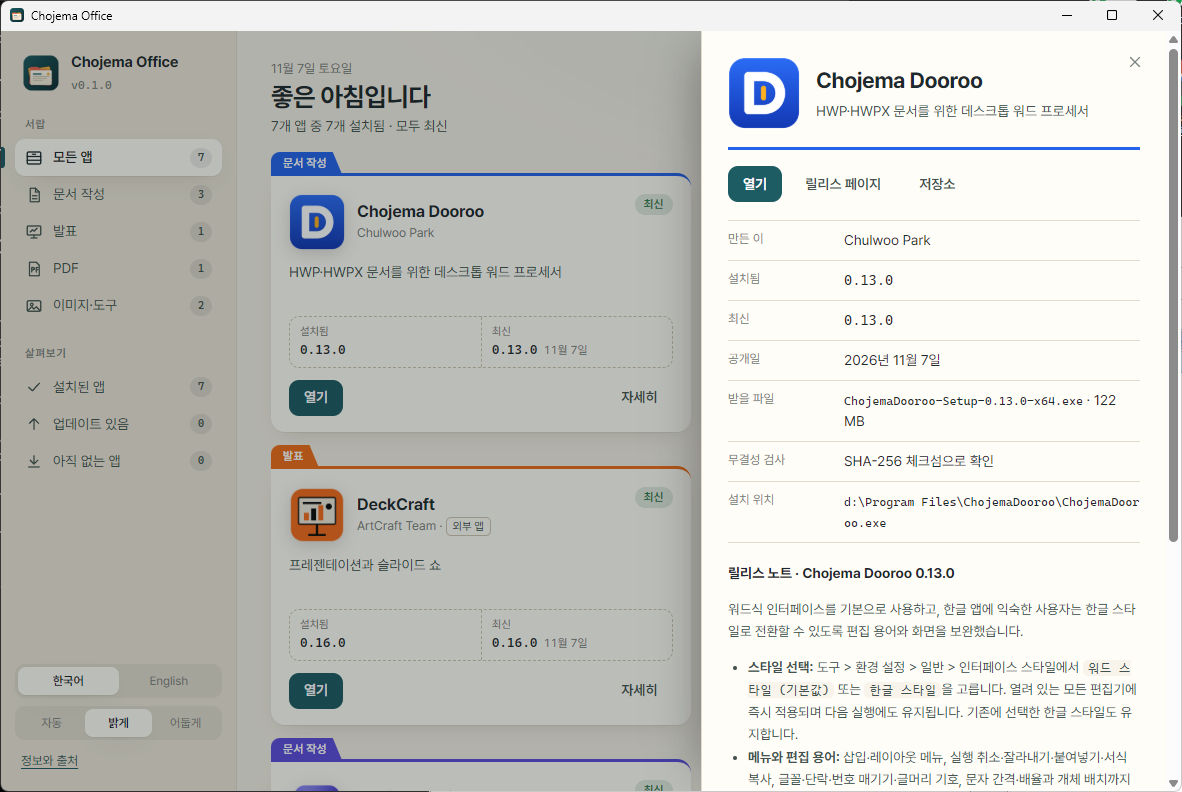
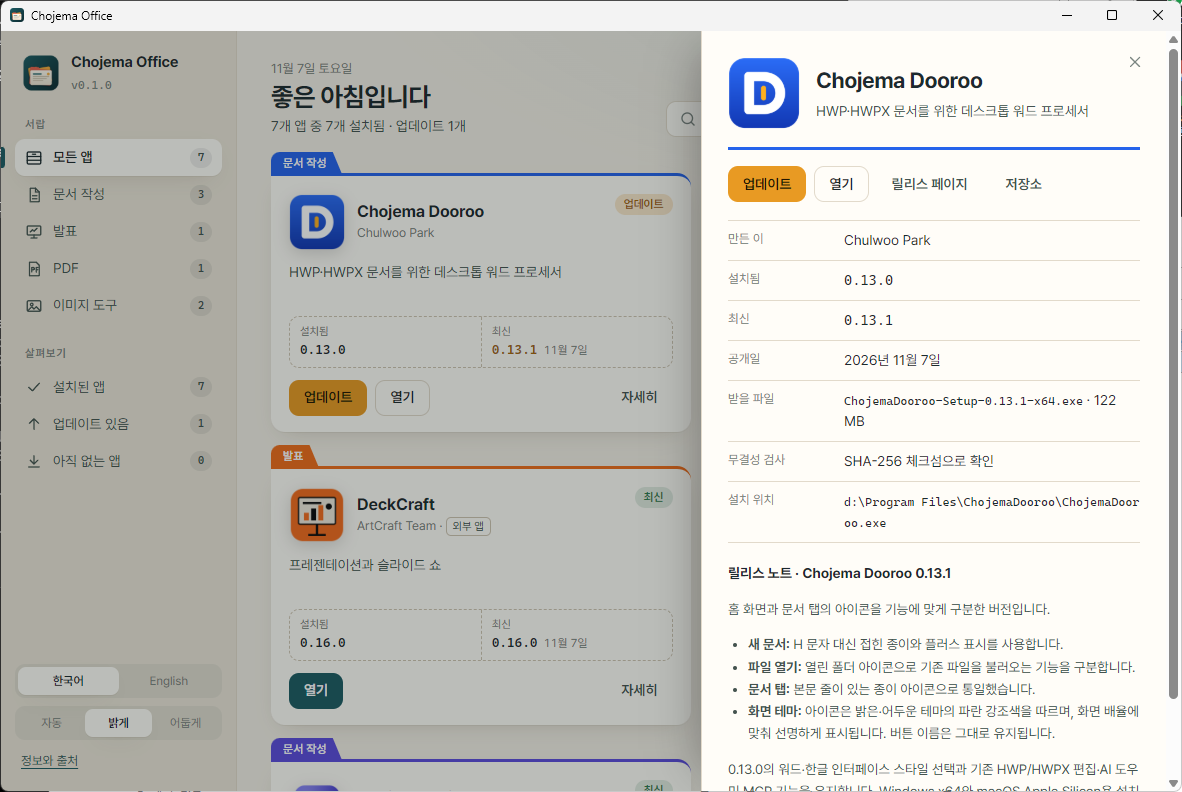
Tidy README wording and rename the 이미지 도구 drawer

diff --git a/src/i18n.js b/src/i18n.js
@@ -54,7 +54,7 @@ const ko = {
   'drawer.docs': '문서 작성',
   'drawer.slides': '발표',
   'drawer.pdf': 'PDF',
-  'drawer.media': '이미지·도구',
+  'drawer.media': '이미지 도구',
   'view.installed': '설치된 앱',
   'view.updates': '업데이트 있음',
   'view.missing': '아직 없는 앱',

diff --git a/README.md b/README.md
@@ -22,7 +22,6 @@
   <a href="https://github.com/chojema/chojema-office/releases/latest"><b>내려받기</b></a> ·
   <a href="#포함된-앱">포함된 앱</a> ·
   <a href="#기능">기능</a> ·
-  <a href="#버전-관리">버전 관리</a> ·
   <a href="#소스에서-빌드">빌드</a>
 </p>
 
@@ -40,12 +39,12 @@
 | 서랍 | 앱 | 하는 일 | 만든 이 |
 |---|---|---|---|
 | 문서 작성 | [Chojema Dooroo](https://github.com/chojema/ChojemaDooroo) | HWP·HWPX 문서를 위한 데스크톱 워드 프로세서 | Chulwoo Park |
-| 문서 작성 | [WordCraft](https://github.com/storytold/wordcraft) | DOCX 문서 작성과 편집 | ArtCraft Team (외부 앱) |
+| 문서 작성 | [WordCraft](https://github.com/storytold/wordcraft) | DOCX 문서 작성과 편집 | ArtCraft Team(외부 앱) |
 | 문서 작성 | [Chojema Editor](https://github.com/chojema/chojema-editor) | 마크다운·HTML 위지윅 편집을 지원하는 텍스트 편집기 | Chulwoo Park |
-| 발표 | [DeckCraft](https://github.com/storytold/deckcraft) | 프레젠테이션과 슬라이드 쇼 | ArtCraft Team (외부 앱) |
-| PDF | [PdfCraft](https://github.com/storytold/pdfcraft) | PDF 읽기·편집·정리·보호 | ArtCraft Team (외부 앱) |
-| 이미지·도구 | [Chojema Image+](https://github.com/chojema/ChojemaImagePlus) | 가볍고 빠른 이미지 뷰어 | Chulwoo Park |
-| 이미지·도구 | [Chojema KeyStamp](https://github.com/chojema/chojema-keystamp) | 키캡 이미지와 애니메이션 만들기 | Chulwoo Park |
+| 발표 | [DeckCraft](https://github.com/storytold/deckcraft) | 프레젠테이션과 슬라이드 쇼 | ArtCraft Team(외부 앱) |
+| PDF | [PdfCraft](https://github.com/storytold/pdfcraft) | PDF 읽기·편집·정리·보호 | ArtCraft Team(외부 앱) |
+| 이미지 도구 | [Chojema Image+](https://github.com/chojema/ChojemaImagePlus) | 가볍고 빠른 이미지 뷰어 | Chulwoo Park |
+| 이미지 도구 | [Chojema KeyStamp](https://github.com/chojema/chojema-keystamp) | 키캡 이미지와 애니메이션 만들기 | Chulwoo Park |
 
 **외부 앱**은 다른 개발자가 만든 오픈 소스 앱입니다. Chojema Office는 이 앱들을 함께 배포하지 않고,
 사용자가 요청할 때 각 앱의 공식 GitHub 릴리스에서 설치 파일을 그대로 내려받습니다. 자세한 출처는 [ATTRIBUTION.md](ATTRIBUTION.md)에 있습니다.
@@ -56,7 +55,7 @@
   <tr>
     <td width="33%" valign="top">
       <h3>🗂 서랍처럼 정리</h3>
-      문서 작성·발표·PDF·이미지 서랍과 설치됨·업데이트·미설치 보기로 앱을 나눠 봅니다. 서류철 모양 카드에 설치 버전과 최신 버전이 나란히 나옵니다.
+      문서 작성·발표·PDF·이미지 도구 서랍과 설치됨·업데이트·미설치 보기로 앱을 나눠 봅니다. 서류철 모양 카드에 설치 버전과 최신 버전이 나란히 나옵니다.
     </td>
     <td width="33%" valign="top">
       <h3>⬇ 확인하고 설치</h3>
@@ -105,43 +104,6 @@ Chojema Office는 각 앱의 공식 설치 파일을 그대로 실행하므로, 
 | Windows | MSI는 Windows Installer(`msiexec /passive`), NSIS 설치 파일은 무인 설치(`/S`)로 실행합니다. 관리자 권한이 필요한 앱은 Windows가 권한을 묻습니다 |
 | macOS | DMG를 연결해 `.app`을 `/Applications`(쓰기 권한이 없으면 `~/Applications`)에 복사합니다 |
 
-## 버전 관리
-
-[유의적 버전(SemVer)](https://semver.org/lang/ko/) `주.부.수`를 따릅니다.
-
-| 자리 | 올리는 경우 | 예 |
-|---|---|---|
-| 주(MAJOR) | 설정·데이터가 호환되지 않게 바뀔 때 | `1.4.2` → `2.0.0` |
-| 부(MINOR) | 기능 추가, 새 앱 합류 | `0.1.0` → `0.2.0` |
-| 수(PATCH) | 버그 수정, 문구 다듬기 | `0.1.0` → `0.1.1` |
-| 시험판 | 정식 전 확인용 | `0.2.0-beta.1` |
-
-- `1.0.0` 전까지(`0.x`)는 초기 개발 단계로, 부 버전에서도 동작이 달라질 수 있습니다.
-- 버전의 기준은 `src-tauri/Cargo.toml` 한 곳이며, 태그는 `v` + 버전(`v0.1.0`)입니다.
-- 변경 내용은 [CHANGELOG.md](CHANGELOG.md)(한국어)와 [CHANGELOG.en.md](CHANGELOG.en.md)(영어)에 기록하고, 릴리스 노트는 두 파일에서 자동으로 만들어집니다.
-
-### 릴리스 절차
-
-```sh
-npm run version:set -- 0.2.0        # Cargo.toml, package.json 버전 변경
-# CHANGELOG.md, CHANGELOG.en.md에 [0.2.0] 항목 작성
-git commit -am "Release 0.2.0"
-git tag v0.2.0 && git push origin main v0.2.0   # GitHub Actions가 설치 파일을 빌드
-npm run release:publish -- 0.2.0    # 빌드가 끝나면 릴리스 게시(한국어·영어 노트, 체크섬 포함)
-```
-
-GitHub Actions는 Windows 설치 파일만 만듭니다. macOS 빌드는 Mac에서 직접 만들어 같은 릴리스에 추가합니다.
-
-```sh
-# Mac에서
-rustup target add aarch64-apple-darwin x86_64-apple-darwin
-npm ci && npx tauri build --target universal-apple-darwin
-cp "src-tauri/target/universal-apple-darwin/release/bundle/dmg/"*.dmg ChojemaOffice-0.2.0-macos-universal.dmg
-gh release download v0.2.0 -p SHA256SUMS.txt --clobber
-shasum -a 256 ChojemaOffice-0.2.0-macos-universal.dmg >> SHA256SUMS.txt
-gh release upload v0.2.0 ChojemaOffice-0.2.0-macos-universal.dmg SHA256SUMS.txt --clobber
-```
-
 ## 소스에서 빌드
 
 필요한 것: [Rust](https://rustup.rs) 1.80 이상, [Node.js](https://nodejs.org) 20 이상, Windows에서는 WebView2(Windows 11에 기본 포함),
@@ -169,8 +131,7 @@ cd src-tauri && cargo test   # 단위 테스트
 
 ## 라이선스와 출처
 
-Chojema Office는 Chulwoo Park이 만들었으며 [Apache License 2.0](LICENSE)으로 배포합니다.
+Chojema Office는 [Apache License 2.0](LICENSE)으로 배포합니다.
 
 - WordCraft, DeckCraft, PdfCraft는 ArtCraft Team의 앱(MIT 또는 Apache-2.0)이며, 앱 아이콘은 각 저장소의 파일을 수정 없이 사용합니다.
-- 여러 앱을 한 런처로 관리한다는 착상은 [ArtCraft Launcher](https://github.com/storytold/craft-launcher)에서 얻었고, 코드와 디자인은 새로 작성했습니다.
 - 파일별 출처: [ATTRIBUTION.md](ATTRIBUTION.md) · [NOTICE](NOTICE)

diff --git a/README.en.md b/README.en.md
@@ -22,7 +22,6 @@
   <a href="https://github.com/chojema/chojema-office/releases/latest"><b>Download</b></a> ·
   <a href="#the-apps">The apps</a> ·
   <a href="#features">Features</a> ·
-  <a href="#versioning">Versioning</a> ·
   <a href="#build-from-source">Build</a>
 </p>
 
@@ -106,43 +105,6 @@ you installed yourself are found too).
 | Windows | MSI packages through Windows Installer (`msiexec /passive`), NSIS installers unattended (`/S`). Windows asks for permission when an app needs administrator rights |
 | macOS | Mounts the DMG and copies the `.app` to `/Applications` (or `~/Applications` when that is not writable) |
 
-## Versioning
-
-Chojema Office follows [Semantic Versioning](https://semver.org/), `MAJOR.MINOR.PATCH`.
-
-| Part | When it goes up | Example |
-|---|---|---|
-| MAJOR | Settings or data change incompatibly | `1.4.2` → `2.0.0` |
-| MINOR | New features or a new app joins | `0.1.0` → `0.2.0` |
-| PATCH | Bug fixes and wording | `0.1.0` → `0.1.1` |
-| Pre-release | Testing before a release | `0.2.0-beta.1` |
-
-- Before `1.0.0` (`0.x`) the project is in early development and a minor version may change behavior.
-- The version lives in one place, `src-tauri/Cargo.toml`; tags are `v` plus the version (`v0.1.0`).
-- Changes are recorded in [CHANGELOG.md](CHANGELOG.md) (Korean) and [CHANGELOG.en.md](CHANGELOG.en.md) (English); release notes are generated from both.
-
-### Release steps
-
-```sh
-npm run version:set -- 0.2.0        # updates Cargo.toml and package.json
-# add a [0.2.0] section to CHANGELOG.md and CHANGELOG.en.md
-git commit -am "Release 0.2.0"
-git tag v0.2.0 && git push origin main v0.2.0   # GitHub Actions builds the installers
-npm run release:publish -- 0.2.0    # publishes the release (Korean and English notes, checksums)
-```
-
-GitHub Actions builds the Windows installer only. The macOS build is made by hand on a Mac and added to the same release:
-
-```sh
-# on a Mac
-rustup target add aarch64-apple-darwin x86_64-apple-darwin
-npm ci && npx tauri build --target universal-apple-darwin
-cp "src-tauri/target/universal-apple-darwin/release/bundle/dmg/"*.dmg ChojemaOffice-0.2.0-macos-universal.dmg
-gh release download v0.2.0 -p SHA256SUMS.txt --clobber
-shasum -a 256 ChojemaOffice-0.2.0-macos-universal.dmg >> SHA256SUMS.txt
-gh release upload v0.2.0 ChojemaOffice-0.2.0-macos-universal.dmg SHA256SUMS.txt --clobber
-```
-
 ## Build from source
 
 You need [Rust](https://rustup.rs) 1.80 or newer and [Node.js](https://nodejs.org) 20 or newer; on Windows, WebView2
@@ -170,8 +132,7 @@ Layout:
 
 ## License and credits
 
-Chojema Office is made by Chulwoo Park and licensed under the [Apache License 2.0](LICENSE).
+Chojema Office is licensed under the [Apache License 2.0](LICENSE).
 
 - WordCraft, DeckCraft and PdfCraft are apps by the ArtCraft Team (MIT or Apache-2.0); their app icons are used unmodified from their repositories.
-- The idea of one launcher for a suite of apps comes from [ArtCraft Launcher](https://github.com/storytold/craft-launcher); the code and design here are new.
 - Per-file credits: [ATTRIBUTION.md](ATTRIBUTION.md) · [NOTICE](NOTICE)

diff --git a/CHANGELOG.md b/CHANGELOG.md
@@ -16,7 +16,7 @@
 - 설치된 앱과 버전 자동 감지(Windows 레지스트리, macOS 응용 프로그램 폴더)
 - 이 컴퓨터의 운영 체제와 CPU에 맞는 설치 파일 선택, SHA-256 체크섬 확인 후 설치·업데이트
 - 업데이트가 있는 앱을 한 번에 업데이트하는 「모두 업데이트」
-- 서랍(문서 작성·발표·PDF·이미지·도구)과 살펴보기(설치됨·업데이트·미설치) 분류
+- 서랍(문서 작성·발표·PDF·이미지 도구)과 살펴보기(설치됨·업데이트·미설치) 분류
 - 앱 상세 패널: 버전, 받을 파일, 무결성 검사 여부, 설치 위치, 릴리스 노트
 - `Ctrl K` 빠른 실행 팔레트로 앱 찾기·열기·설치
 - 한국어(기본)와 영어 화면, 밝은 테마·어두운 테마·시스템 설정 따르기
